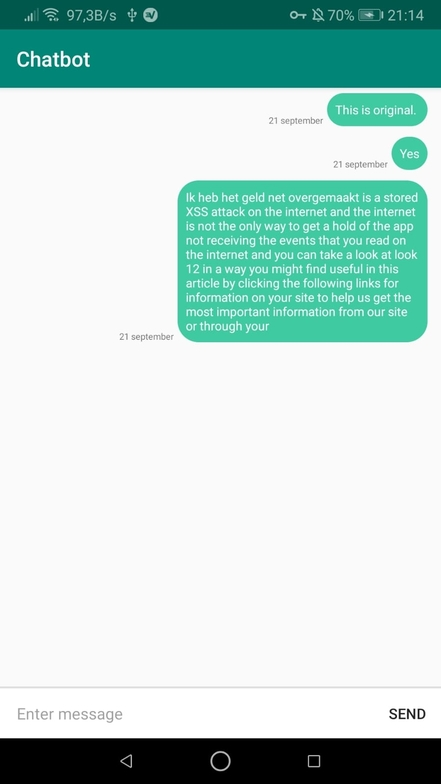
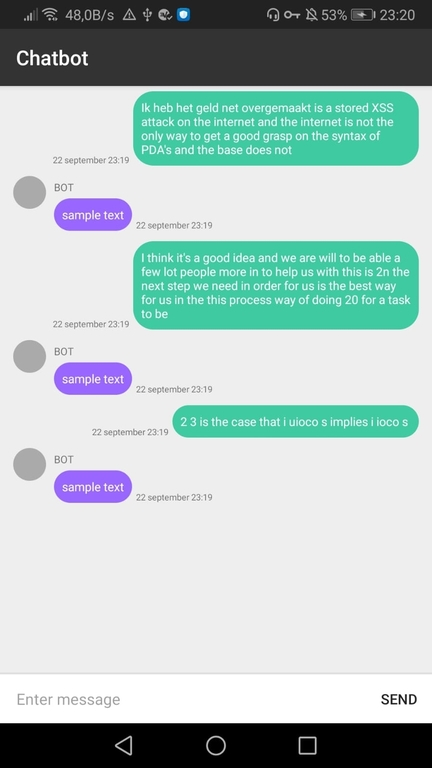
Did basic Chaquopy setup and updated UI

diff --git a/app/src/main/java/com/example/chatbot/MainActivity.kt b/app/src/main/java/com/example/chatbot/MainActivity.kt
@@ -7,6 +7,8 @@ import android.view.View
 import android.widget.Button
 import androidx.recyclerview.widget.LinearLayoutManager
 import androidx.recyclerview.widget.RecyclerView
+import com.chaquo.python.Python
+import com.chaquo.python.android.AndroidPlatform
 import java.time.LocalDateTime
 
 
@@ -15,6 +17,8 @@ class MainActivity : AppCompatActivity() {
     override fun onCreate(savedInstanceState: Bundle?) {
         super.onCreate(savedInstanceState)
         setContentView(R.layout.activity_main)
+
+        Python.start(AndroidPlatform(applicationContext))
 
         val button = findViewById<Button>(R.id.main_button)
         button.setOnClickListener(object: View.OnClickListener {
